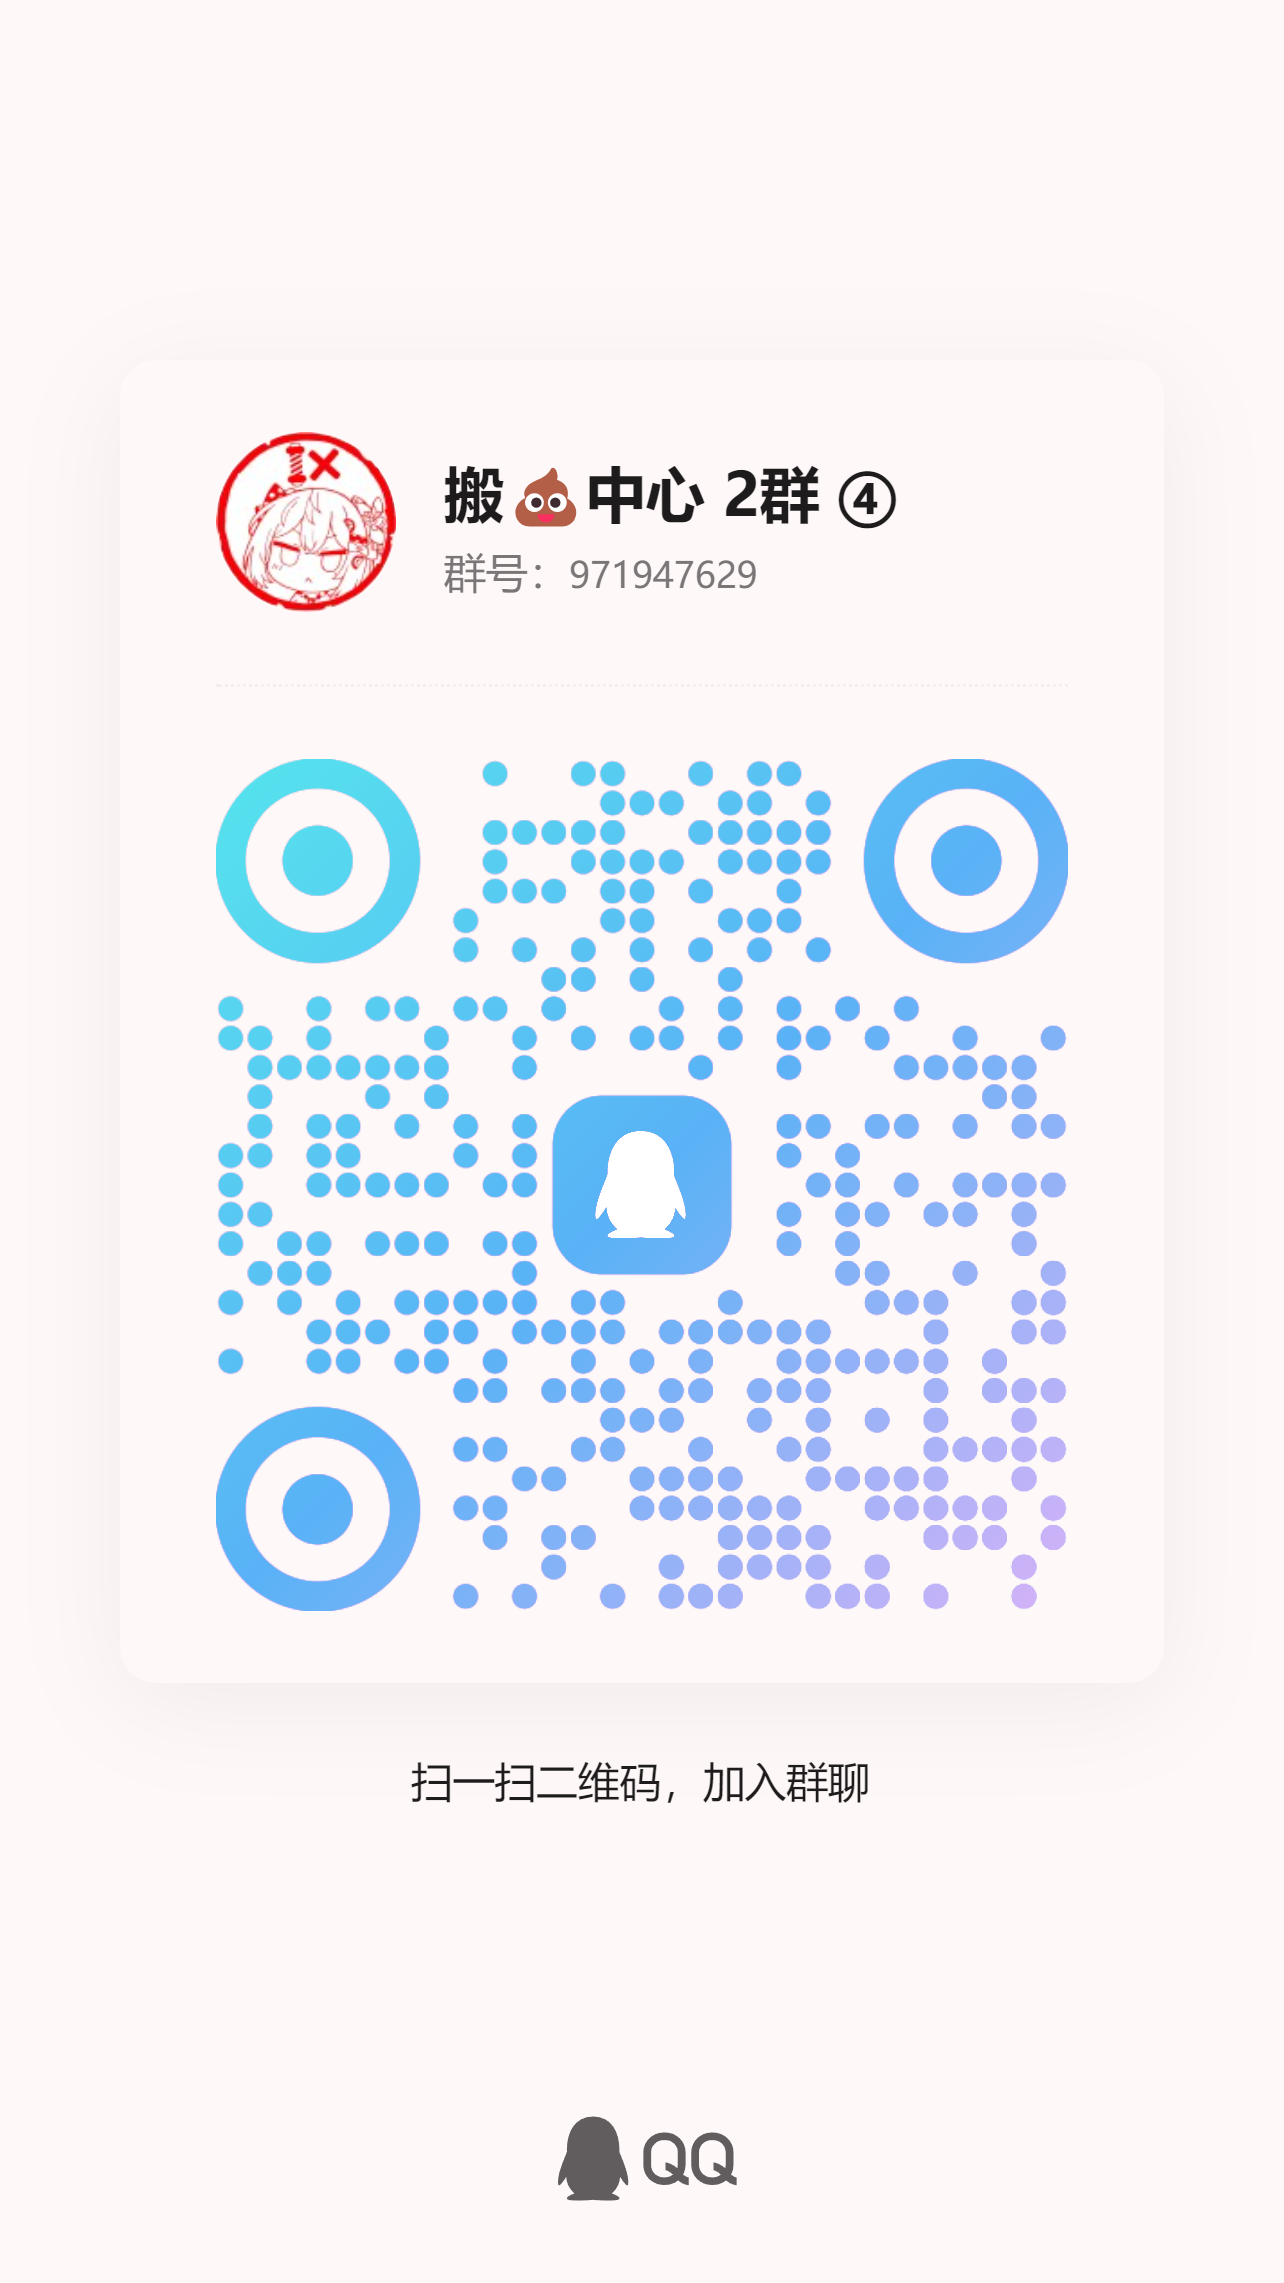
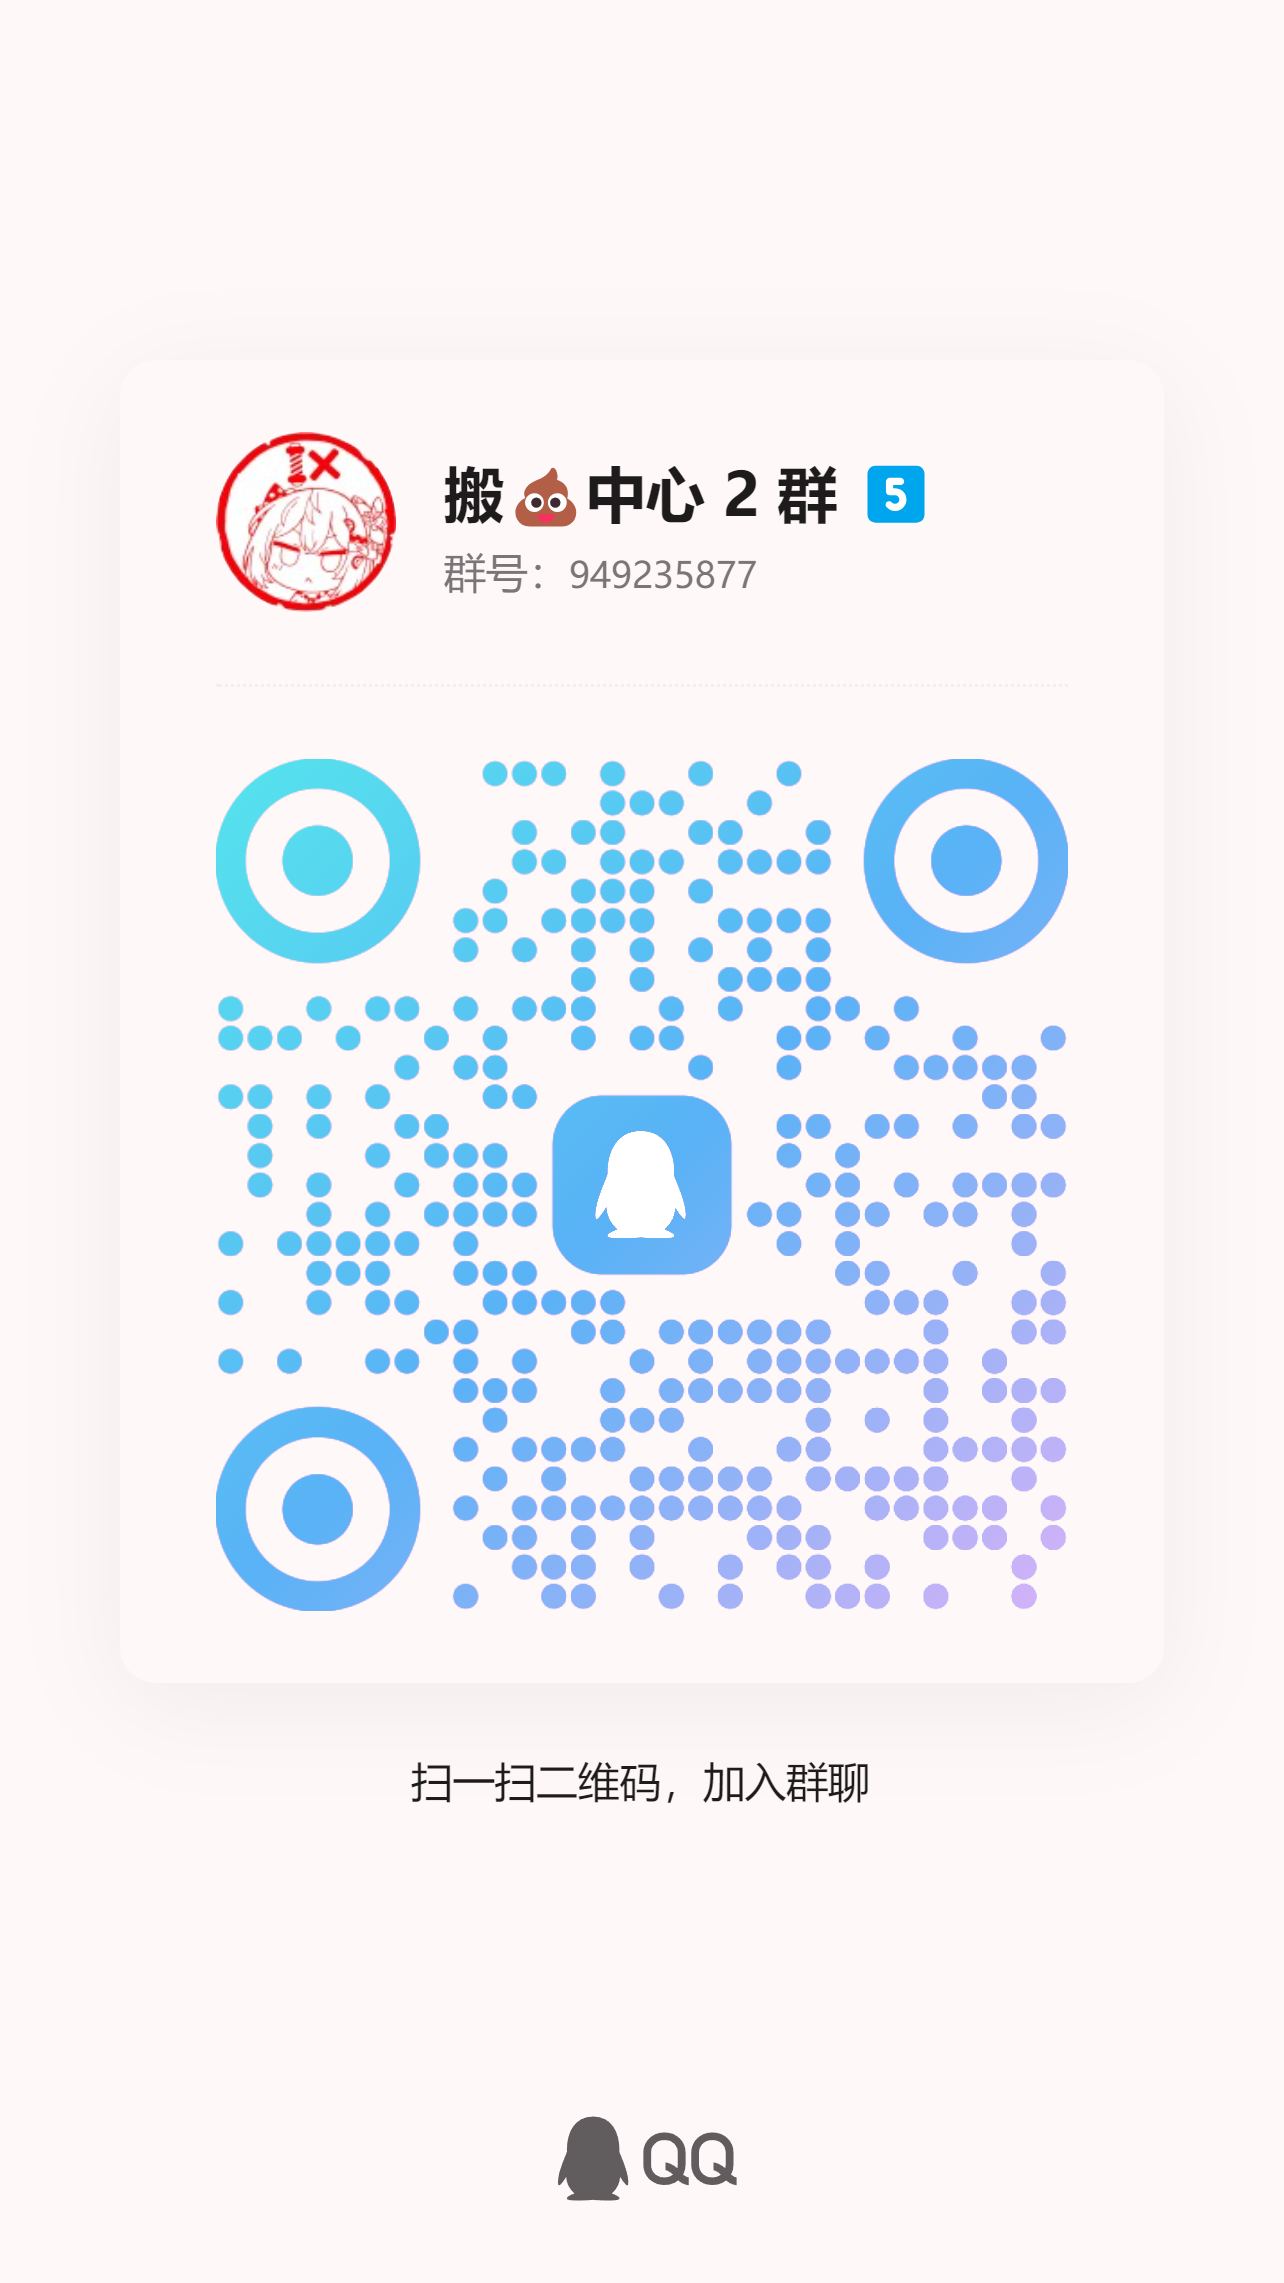
update

diff --git a/source/groups/index.md b/source/groups/index.md
@@ -29,18 +29,18 @@ date: 2025-09-16 10:57:46
 二维码:
 {% img /images/qrcode_group_1.jpg 250 "一群" %}
 
-2 群：971947629
-链接: https://qm.qq.com/q/wEwzU2gSBi
+2 群：949235877
+链接: https://qm.qq.com/q/RBboyyvkQM
 二维码:
 {% img /images/qrcode_group_2.jpg 250 "二群" %}
 
-3 群：870198874
-链接: https://qm.qq.com/q/Cnv80KtWcU
+3 群：1087805702
+链接: https://qm.qq.com/q/lN8n4ZXLFu
 二维码:
 {% img /images/qrcode_group_3.jpg 250 "三群" %}
 
-4 群：1036266098
-链接: https://qm.qq.com/q/Ul8jPkfDUI
+4 群：733915398
+链接: https://qm.qq.com/q/u4UabcK62Y
 二维码:
 {% img /images/qrcode_group_4.jpg 250 "四群" %}
 

diff --git a/source/_posts/2026-02-27-复活234群.md b/source/_posts/2026-02-27-复活234群.md
@@ -1,0 +1,20 @@
+---
+title: 2026-02-27 复活234群
+date: 2026-02-27 21:21:41
+tags:
+---
+
+近期受到大规模举办 几个小号也被封了不过不影响建群
+新群点下面的链接 里面的链接群号二维码已经全部更新
+
+{% flink %}
+
+- class_name: 点我跳转
+  link_list:
+
+  - name: 搬史中心入口
+    link: /sowing_discord_center/groups/
+    avatar:
+    descr: (其实它就在顶栏)
+
+{% endflink %}
